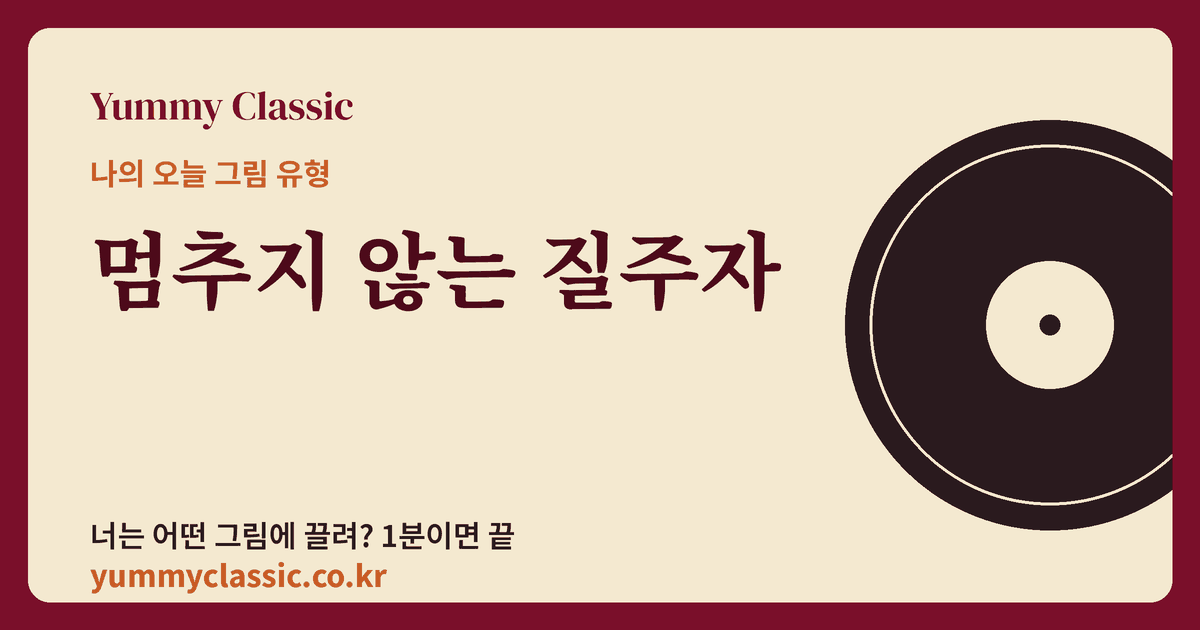
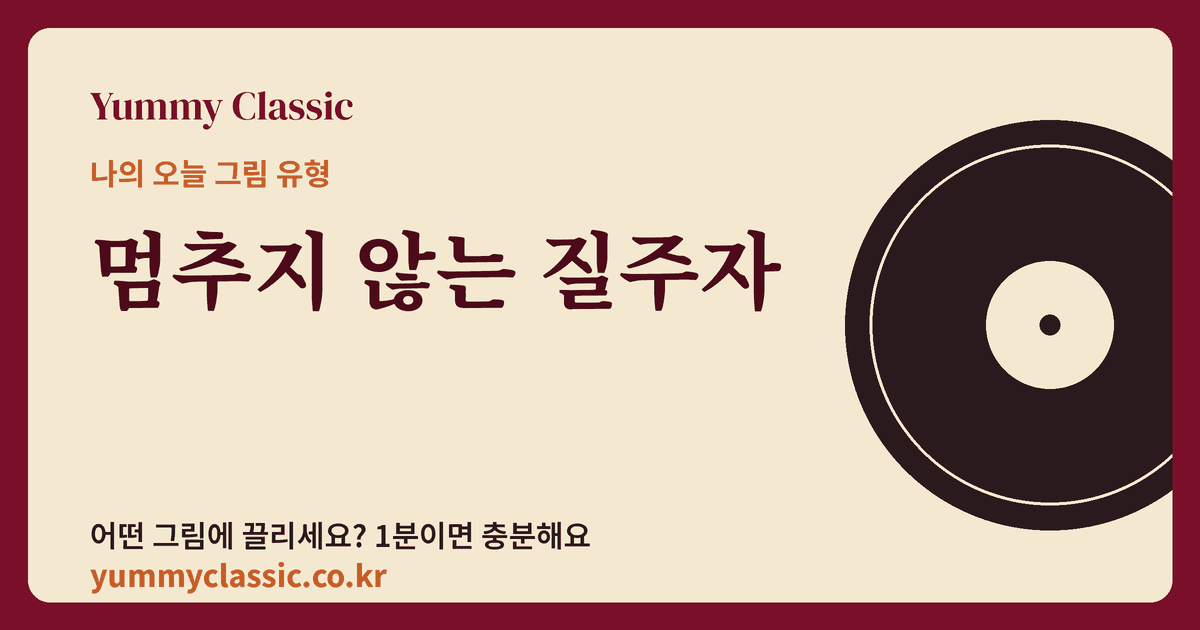
Question line above the harmony button; polite tone on link preview images
Claude-Session: https://claude.ai/code/session_01TRYBqAiNpHtazXAtHncujs

Changed region(s): [[0.0617, 0.8143, 0.4933, 0.8746]]

diff --git a/index.html b/index.html
@@ -698,6 +698,9 @@
     .vs-pair small { display: block; margin-bottom: .15rem; font-size: .72rem; font-weight: 500; opacity: .7; }
     .vs-shared { margin-top: .7rem; font-size: .85rem; opacity: .85; }
     .vs-card .btn { margin-top: 1.1rem; }
+    #r-ask[hidden] { display: none !important; }
+    .r-ask { margin: 1.4rem auto 0; max-width: 32rem; text-align: center; font-size: .95rem; font-weight: 600; color: var(--wine); line-height: 1.45; }
+    .r-ask + .r-actions { margin-top: .6rem; }
     .r-actions { display: flex; flex-wrap: wrap; justify-content: center; gap: .5rem; margin-top: 1.25rem; }
     .r-pct { margin-top: .9rem; font-size: .9rem; color: var(--muted); text-align: center; }
     .fb-box { max-width: 32rem; margin: 1.25rem auto 0; padding: 1rem 1rem 1.1rem; border: 1px dashed var(--line-strong); border-radius: var(--r-lg); text-align: center; }
@@ -842,6 +845,7 @@
                   </div>
                 </figure>
                 <p id="r-pct" class="r-pct" hidden></p>
+                <p id="r-ask" class="r-ask" data-i18n="vsInviteT" hidden>You and someone special: what % harmony do your paintings show?</p>
                 <div class="r-actions">
                   <button type="button" id="vs-top" class="btn btn-primary btn-match"><span class="yc-badge"><svg class="yc-ic" viewBox="0 0 24 24" fill="none" stroke="currentColor" stroke-width="1.8" stroke-linecap="round" aria-hidden="true"><circle cx="12" cy="12" r="6.3"/><circle cx="12" cy="12" r="2"/><g transform="translate(3.6 5.6) rotate(-8)"><path d="M-1.6 0v3.2M0 0v3.2M1.6 0v3.2M-1.6 3.2c0 1.8 3.2 1.8 3.2 0M0 4.6V12"/></g><g transform="translate(20.4 5.6) rotate(8)"><path d="M-1.6 0v3.2M0 0v3.2M1.6 0v3.2M-1.6 3.2c0 1.8 3.2 1.8 3.2 0M0 4.6V12"/></g></svg></span><span data-i18n="vsTop">Check your painting match with a friend</span></button>
                   <button type="button" id="story-top" class="btn btn-ghost"><svg class="yc-ic" viewBox="0 0 24 24" fill="none" stroke="currentColor" stroke-width="1.8" stroke-linecap="round" aria-hidden="true"><rect x="6.5" y="2.5" width="11" height="19" rx="2.2"/><path d="M10.5 5h3"/><circle cx="12" cy="13" r="3"/><circle cx="12" cy="13" r=".6" fill="currentColor"/></svg><span data-i18n="storyTop">Post to your story</span></button>
@@ -5738,6 +5742,7 @@
       const ta = document.querySelector('#fb textarea');
       if (ta) ta.placeholder = I18N[lang][fbVote < 0 ? 'fbPhNo' : 'fbPhYes'];
       const vt = document.getElementById('vs-top'); if (vt) vt.hidden = !!(restored || !ready());
+      const ask = document.getElementById('r-ask'); if (ask) ask.hidden = !!(restored || !ready());
       const fb = document.getElementById('fb'); if (fb) fb.hidden = !!restored;
     }
     document.getElementById('vs-top').addEventListener('click', sendVs);

diff --git a/src/worker.js b/src/worker.js
@@ -184,7 +184,7 @@ const TYPES = {"radiant": {"en": "The Quiet Light-Catcher", "ko": "고요한 빛
[1 lines of base64/hex data omitted]
 const SITE_LANGS = ['ko', 'en', 'ja'];
 const OG_TXT = {
-  ko: { type: '나의 오늘 그림 유형은 ‘{t}’', typeDesc: '그림 몇 장만 고르면 오늘의 클래식이 나와요. 너는 어떤 그림에 끌려?',
+  ko: { type: '나의 오늘 그림 유형은 ‘{t}’', typeDesc: '그림 몇 장만 고르면 오늘의 클래식이 나와요. 어떤 그림에 끌리세요?',
         match: '소중한 사람과 나, 그림으로 알아본 화음은 몇 %?', matchDesc: '화음 링크가 도착했어요. 그림 몇 장만 고르면 두 분의 화음과 화음률이 나와요.' },
   en: { type: 'My painting type today: “{t}”', typeDesc: 'Pick a few paintings and today’s classical finds you. Which one draws you?',
         match: 'You and someone special: what % harmony do your paintings show?', matchDesc: 'A harmony link for you. Pick a few paintings to see your harmony and its rate.' },
